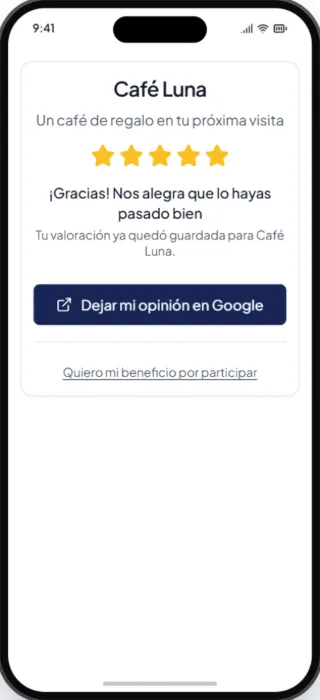
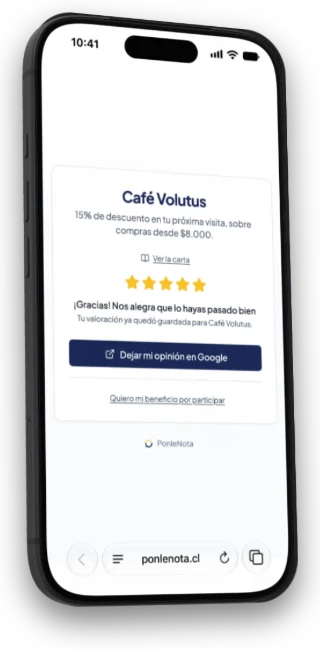
Actualiza la vitrina de PonleNota con su nueva portada y el iPhone en perspectiva
El sitio es la portada nueva de ponlenota.cl, en la proporción de la
ventana. Los dos teléfonos son el iPhone 3D de esa portada fotografiado
en perspectiva hacia el sitio, con su sombra: imágenes planas, sin 3D.
La app lleva su barra de pestañas al pie. Se va el teléfono dibujado en
CSS y las imágenes que ya no se usan.

diff --git a/src/data/proyectos.js b/src/data/proyectos.js
@@ -43,14 +43,15 @@ export const PROYECTOS = [
       'ponlenota.cl convierte cada visita a un negocio local en una valoración privada y, si el cliente quiere, en una reseña en Google.',
     sitio: 'https://ponlenota.cl',
     // Tres caras del producto, cada una con su captura real, en la vitrina de
-    // la lámina. `forma` dice cómo se enmarca: `pantalla` va en una ventana,
-    // `telefono` ya trae su teléfono dibujado y `app` es la pantalla sola, así
-    // que la vitrina le pone el borde del teléfono.
+    // la lámina. `forma` dice dónde va: `pantalla` es el sitio, que va en una
+    // ventana, y `telefono` y `app` van a sus lados en el iPhone de la portada
+    // de ponlenota.cl, fotografiado en perspectiva hacia el sitio y con su
+    // sombra: son imágenes planas, la vitrina no dibuja ningún 3D.
     //
-    // La web es de ponlenota.cl (25-09-2026). El cliente es la demo de la
-    // propia web, sin guardar nada. La app es la pantalla real de Android,
-    // pintada con un negocio de ejemplo (Café Luna) y datos inventados: ningún
-    // dato de un cliente real.
+    // La web es la portada de ponlenota.cl (19-11-2026). El cliente es la
+    // pantalla de Google y el cupón de esa portada, con su café de ejemplo.
+    // La app es la pantalla real del dueño, pintada con un negocio de ejemplo
+    // (Café Luna) y datos inventados: ningún dato de un cliente real.
     vistas: [
       {
         forma: 'pantalla',
@@ -58,28 +59,28 @@ export const PROYECTOS = [
           src: '/image/proyectos/ponlenota-1280.webp',
           srcSet: '/image/proyectos/ponlenota-760.webp 760w, /image/proyectos/ponlenota-1280.webp 1280w',
           ancho: 1280,
-          alto: 800,
-          alt: 'La portada de ponlenota.cl: el titular «Opiniones privadas. Reseñas en Google» junto a una tarjeta con la valoración media de un café de ejemplo.',
+          alto: 640,
+          alt: 'La portada de ponlenota.cl: el titular «Tus clientes te ponen nota. Tú los haces volver.» junto a un iPhone con la pantalla bloqueada y el logo de PonleNota.',
         },
       },
       {
         forma: 'telefono',
         imagen: {
           src: '/image/proyectos/ponlenota-cliente-320.webp',
-          srcSet: '/image/proyectos/ponlenota-cliente-320.webp 320w, /image/proyectos/ponlenota-cliente-628.webp 628w',
+          srcSet: '/image/proyectos/ponlenota-cliente-320.webp 320w, /image/proyectos/ponlenota-cliente-640.webp 640w',
           ancho: 320,
-          alto: 700,
-          alt: 'Un teléfono con la valoración de Café Luna: cinco estrellas, el agradecimiento y los botones para dejar la opinión en Google o pedir el beneficio.',
+          alto: 649,
+          alt: 'Un iPhone con la valoración de Café Volutus: cinco estrellas, el agradecimiento y los botones para dejar la opinión en Google o pedir el beneficio.',
         },
       },
       {
         forma: 'app',
         imagen: {
-          src: '/image/proyectos/ponlenota-app-640.webp',
-          srcSet: '/image/proyectos/ponlenota-app-640.webp 640w, /image/proyectos/ponlenota-app-960.webp 960w',
-          ancho: 640,
-          alto: 2636,
-          alt: 'El inicio de la app de PonleNota para Café Luna: 1240 toques, 486 valoraciones, 212 cupones entregados y 97 canjeados este mes, los accesos rápidos y la campaña activa de un café americano gratis.',
+          src: '/image/proyectos/ponlenota-app-320.webp',
+          srcSet: '/image/proyectos/ponlenota-app-320.webp 320w, /image/proyectos/ponlenota-app-640.webp 640w',
+          ancho: 320,
+          alto: 649,
+          alt: 'Un iPhone con el inicio de la app de PonleNota para Café Luna: 1240 toques, 486 valoraciones, 212 cupones entregados y 97 canjeados este mes, los accesos rápidos y la campaña activa de un café americano gratis.',
         },
       },
     ],

diff --git a/src/components/Proyectos.css b/src/components/Proyectos.css
@@ -170,8 +170,8 @@
   height: auto;
 }
 
-/* El sitio, con su dirección arriba. La captura se queda en su portada: lo
-   de más abajo es blanco y enseñaba tarjetas cortadas. */
+/* El sitio, con su dirección arriba. La captura es solo su portada, en la
+   proporción de la ventana. */
 .vitrina-ventana {
   left: 6%;
   top: 7%;
@@ -195,57 +195,20 @@
 
 .vitrina-ventana img {
   width: 100%;
-  aspect-ratio: 2 / 1;
-  object-fit: cover;
-  object-position: top;
 }
 
 .vitrina-telefono,
 .vitrina-app {
-  top: 42%;
-  width: 29%;
+  top: 40%;
+  width: 33%;
 }
 
-/* La captura del cliente trae su teléfono, pero con las esquinas del fondo
-   blanco donde se tomó: el radio las recorta a la curva del propio marco. */
 .vitrina-telefono {
-  left: 19%;
-  border-radius: 13% / 6%;
-  box-shadow: 0 24px 40px -12px rgb(0 0 0 / 0.6);
+  left: 16%;
 }
 
-/* La app no trae su teléfono: lo dibuja la propia imagen, con el marco en el
-   borde y la franja de arriba en el relleno, y la isla encima. Copia las
-   proporciones del teléfono del cliente, en `cqi` del propio ancho, y se corta
-   a su mismo alto. */
 .vitrina-app {
-  right: 19%;
-  container-type: inline-size;
-}
-
-.vitrina-app img {
-  width: 100%;
-  aspect-ratio: 320 / 700;
-  object-fit: cover;
-  object-position: top;
-  padding-top: 15cqi;
-  border: 2.6cqi solid #111316;
-  border-radius: 13cqi;
-  background: #f6f7f9 padding-box;
-  box-shadow: 0 24px 40px -12px rgb(0 0 0 / 0.6);
-}
-
-.vitrina-app::before {
-  content: '';
-  position: absolute;
-  z-index: 1;
-  top: 5.2cqi;
-  left: 50%;
-  width: 29cqi;
-  height: 7.6cqi;
-  translate: -50% 0;
-  border-radius: 99px;
-  background: #111316;
+  right: 16%;
 }
 
 /* ---- la llegada y el cursor ----
@@ -328,11 +291,11 @@
   }
 
   .vitrina-telefono {
-    left: 2%;
+    left: 0;
   }
 
   .vitrina-app {
-    right: 2%;
+    right: 0;
   }
 }
 
@@ -358,16 +321,16 @@
 
   .vitrina-telefono,
   .vitrina-app {
-    top: 23%;
-    width: 14%;
+    top: 22%;
+    width: 16%;
   }
 
   .vitrina-telefono {
-    left: 6%;
+    left: 3%;
   }
 
   .vitrina-app {
-    right: 6%;
+    right: 3%;
   }
 
   /* La fila: el nombre y el resumen a la izquierda; dónde abrirlo, a la

diff --git a/src/components/Proyectos.jsx b/src/components/Proyectos.jsx
@@ -41,7 +41,8 @@ const TAMANO_TELEFONO = '(min-width: 1024px) 10rem, (min-width: 650px) 15vw, 26v
 /**
  * El producto en la portada de la lámina: el sitio en su ventana, que es lo
  * que manda, y lo que ve el cliente y la app del negocio en dos teléfonos
- * enteros.
+ * enteros, en perspectiva hacia el sitio: cada imagen ya trae su teléfono y
+ * su sombra.
  *
  * Pasan bajo la barra con su luz propia, clara y oscura a trozos: la barra la
  * lee en cada punto (`data-fondo`, ver `initLectura` en barra.js).
@@ -64,11 +65,7 @@ function Vitrina({ vistas, sitio }) {
         </div>
       )}
       {telefono && <Captura imagen={telefono} sizes={TAMANO_TELEFONO} className="vitrina-telefono" />}
-      {app && (
-        <div className="vitrina-app">
-          <Captura imagen={app} sizes={TAMANO_TELEFONO} />
-        </div>
-      )}
+      {app && <Captura imagen={app} sizes={TAMANO_TELEFONO} className="vitrina-app" />}
     </div>
   )
 }
